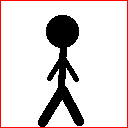
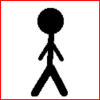
coordonnes et tailles en fonction de la taille des cases

diff --git a/Platformer/Core/MobileGameObject.cs b/Platformer/Core/MobileGameObject.cs
@@ -7,7 +7,7 @@ namespace Platformer.Core
 {
     class MobileGameObject : GameObject
     {
-        public const float gravity = 100f;
+        public const float gravity = 10f;
 
         protected Vector2 speed;
         private Vector2 acceleration;
@@ -53,20 +53,21 @@ namespace Platformer.Core
             StopOnCollision();
 
             Move(speed * (float)gameTime.ElapsedGameTime.TotalSeconds, solidObjectList);
-            Print("acceleration :" + acceleration.ToString());
-            Print("speed :" + speed.ToString());
-            Print("position :" + position.ToString());
+            //Print("side :" + collideSides);
+            //Print("acceleration :" + acceleration.ToString());
+            //Print("speed :" + speed.ToString());
+            //Print("position :" + position.ToString());
         }
 
         protected void Move(Vector2 movement, List<GameObject> solidObjectList)
         {
             float maxMultUntilCollision = 1f,
-                nouveauMult, 
-                distanceMaxCarre = (float)Math.Pow(speed.Length() + 2*Constants.TailleCase, 2);
+                nouveauMult,
+                speedLength = speed.Length();
 
             for (int i = 0; i < solidObjectList.Count; i++)
             {
-                if (solidObjectList[i].IsSolid && DistanceCarre(solidObjectList[i]) < distanceMaxCarre)
+                if (solidObjectList[i].IsSolid && DistanceCarre(solidObjectList[i]) < Math.Pow(speedLength + DiagonalLength + solidObjectList[i].DiagonalLength, 2))
                 {
                     nouveauMult = MultUntilCollision(solidObjectList[i], movement);
                     maxMultUntilCollision = Math.Min(maxMultUntilCollision, nouveauMult);
@@ -77,7 +78,7 @@ namespace Platformer.Core
             collideSides = 0;
             for (int i = 0; i < solidObjectList.Count; i++)
             {
-                if (solidObjectList[i].IsSolid && DistanceCarre(solidObjectList[i]) < distanceMaxCarre)
+                if (solidObjectList[i].IsSolid && DistanceCarre(solidObjectList[i]) < Math.Pow(speedLength + DiagonalLength + solidObjectList[i].DiagonalLength, 2))
                 {
                     DetectCollideSide(solidObjectList[i]);
                 }
@@ -144,7 +145,10 @@ namespace Platformer.Core
         private bool CollisionSegSeg(Vector2 A, Vector2 B, Vector2 O, Vector2 P)
         {
             if (CollisionLineSeg(A, B, O, P) == false)
+            {
                 return false;  // inutile d'aller plus loin si le segment [OP] ne touche pas la droite (AB) 
+            }
+
             Vector2 AB = Vector2.Zero,
                 OP = Vector2.Zero;
             AB.X = B.X - A.X;
@@ -152,6 +156,7 @@ namespace Platformer.Core
             OP.X = P.X - O.X;
             OP.Y = P.Y - O.Y;
             float k = -(A.X * OP.Y - O.X * OP.Y - OP.X * A.Y + OP.X * O.Y) / (AB.X * OP.Y - AB.Y * OP.X);
+
             if (k < 0 || k > 1)
                 return false;
             else
@@ -201,12 +206,15 @@ namespace Platformer.Core
 
         private void DetectCollideSide(GameObject element)
         {
-            if (!((element.Left >= this.Right + 0.01) || (element.Right <= this.Left - 0.01) || (element.Top >= this.Bottom + 0.01) || (element.Bottom <= this.Top - 0.01))) {
+            float offset = 0.01f;
+
+            if (!((element.Left >= this.Right + offset) || (element.Right <= this.Left - offset) || (element.Top >= this.Bottom + offset) || (element.Bottom <= this.Top - offset))) {
 
                 float t_collision = element.Bottom - Top;
                 float b_collision = Bottom - element.Top;
                 float r_collision = Right - element.Left;
                 float l_collision = element.Right - Left;
+                
 
                 if (t_collision < b_collision && t_collision < l_collision && t_collision < r_collision)
                 {
@@ -230,5 +238,7 @@ namespace Platformer.Core
                 }
             }
         }
+
+        
     }
 }

diff --git a/Platformer/Game1.cs b/Platformer/Game1.cs
@@ -5,6 +5,7 @@ using Microsoft.Xna.Framework.Input;
 using Platformer.Core;
 
 using System.Collections.Generic;
+using System;
 
 namespace Platformer
 {
@@ -19,6 +20,7 @@ namespace Platformer
 
         Texture2D playerTexture;
         Texture2D blockTexture;
+        static Texture2D lineTexture;
 
         List<GameObject> map;
 
@@ -41,12 +43,16 @@ namespace Platformer
         protected override void Initialize()
         {
             // TODO: Add your initialization logic here
-            player = new Player(300, 100, 60, 100);
+            player = new Player(1f, -1f, 60, 100);
 
             map = new List<GameObject>();
-            map.Add(new GameObject(128, 256, true));
-            map.Add(new GameObject(256, 384, true));
-            map.Add(new GameObject(384, 384, false));
+            map.Add(new GameObject(1, 1, true));
+            map.Add(new GameObject(1, 3, true));
+            map.Add(new GameObject(1, 5, true));
+            map.Add(new GameObject(2, 7, true));
+            map.Add(new GameObject(3, 2, true));
+            map.Add(new GameObject(3, 4, true));
+            map.Add(new GameObject(3, 6, true));
             base.Initialize();
 
         }
@@ -65,6 +71,7 @@ namespace Platformer
             player.Texture = playerTexture;
 
             blockTexture = Content.Load<Texture2D>("images/block");
+            lineTexture = Content.Load<Texture2D>("images/line");
 
             for (int i = 0; i < map.Count; i++)
             {
@@ -117,6 +124,30 @@ namespace Platformer
 
 
             base.Draw(gameTime);
+        }
+
+        public static void DrawLine(SpriteBatch sb, Vector2 start, Vector2 end)
+        {
+
+            Vector2 edge = end - start;
+            // calculate angle to rotate line
+            float angle =
+                (float)Math.Atan2(edge.Y, edge.X);
+
+
+            sb.Draw(lineTexture,
+                new Rectangle(// rectangle defines shape of line and position of start of line
+                    (int)start.X,
+                    (int)start.Y,
+                    (int)edge.Length(), //sb will strech the texture to fill this rectangle
+                    1), //width of line, change this to make thicker line
+                null,
+                Color.Red, //colour of line
+                angle,     //angle of line (calulated above)
+                new Vector2(0, 0), // point in line about which to rotate
+                SpriteEffects.None,
+                0);
+
         }
     }
 }

diff --git a/Platformer/Core/GameObject.cs b/Platformer/Core/GameObject.cs
@@ -1,6 +1,8 @@
 using Microsoft.Xna.Framework;
 using Microsoft.Xna.Framework.Graphics;
 
+using System;
+
 namespace Platformer.Core
 {
     class GameObject
@@ -9,6 +11,7 @@ namespace Platformer.Core
         protected Vector2 size;
         protected Texture2D texture;
         protected bool isSolid;
+
 
         public GameObject(float x, float y, bool isObjectSolid)
         {
@@ -20,8 +23,13 @@ namespace Platformer.Core
 
         public void Draw(SpriteBatch spriteBatch)
         {
-            spriteBatch.Draw(texture, position, Color.White);
-            //System.Console.WriteLine(position.X + " " + position.Y);
+            spriteBatch.Draw(texture, position * Constants.TileSize, null, Color.White, 0, Vector2.Zero, (float)Constants.TileSize/Constants.TextureSize, SpriteEffects.None, 0);
+
+
+            //Game1.DrawLine(spriteBatch, TopLeft * Constants.TileSize, TopRight * Constants.TileSize);
+            //Game1.DrawLine(spriteBatch, TopRight * Constants.TileSize, BottomRight * Constants.TileSize);
+            //Game1.DrawLine(spriteBatch, BottomRight * Constants.TileSize, BottomLeft * Constants.TileSize);
+            //Game1.DrawLine(spriteBatch, BottomLeft * Constants.TileSize, TopLeft * Constants.TileSize);
         }
 
 
@@ -31,7 +39,7 @@ namespace Platformer.Core
             set
             {
                 texture = value;
-                size = new Vector2(texture.Width, texture.Height);
+                size = new Vector2((float)texture.Width / Constants.TextureSize, (float)texture.Height / Constants.TextureSize);
             }
         }
 
@@ -94,6 +102,11 @@ namespace Platformer.Core
             get { return new Vector2(CenterHori, CenterVert); }
         }
 
+        public float DiagonalLength
+        {
+            get { return (float)Math.Pow(size.X/2 + size.Y/2, 2); }
+        }
+
         public bool IsSolid {
             get => isSolid;
         }
@@ -102,5 +115,7 @@ namespace Platformer.Core
         {
             System.Console.WriteLine(text);
         }
+
+        
     }
 }

diff --git a/Platformer/Core/Player.cs b/Platformer/Core/Player.cs
@@ -9,7 +9,8 @@ namespace Platformer.Core
     {
         protected float direction;
 
-        private const float playerSpeed = 100;
+        private const float playerSpeed = 5f * Constants.TileSize / 128f;
+        private const float playerJump = -15f * Constants.TileSize / 128f;
 
         public Player(float x, float y, float objectMass, float objectMaxSpeed) :
             base(x, y, objectMass, objectMaxSpeed, true, true)
@@ -38,9 +39,9 @@ namespace Platformer.Core
 
         public void DetectMove(KeyboardState state)
         {
-            if (state.IsKeyDown(Keys.Up)/* && (collideSides&2) !=0*/)
+            if (state.IsKeyDown(Keys.Up) && ( (collideSides&1) !=0 || (collideSides & 2) != 0 || (collideSides & 4) != 0))
             {
-                speed.Y = -100;
+                speed.Y = playerJump;
             }
             if (state.IsKeyDown(Keys.Down))
             {

diff --git a/Platformer/Core/Constants.cs b/Platformer/Core/Constants.cs
@@ -8,9 +8,13 @@ namespace Platformer.Core
 {
     public static class Constants
     {
-        public const int WindowWidth = 1080;
-        public const int WindowHeight = 720;
+        public const int TileSize = 64;
+        public const int TextureSize = 128;
 
-        public const float TailleCase = 128;
+        public const int WindowHoriTileNum = 5;
+        public const int WindowVertTileNum = 8;
+
+        public const int WindowWidth = WindowHoriTileNum * TileSize;
+        public const int WindowHeight = WindowVertTileNum * TileSize;
     }
 }
